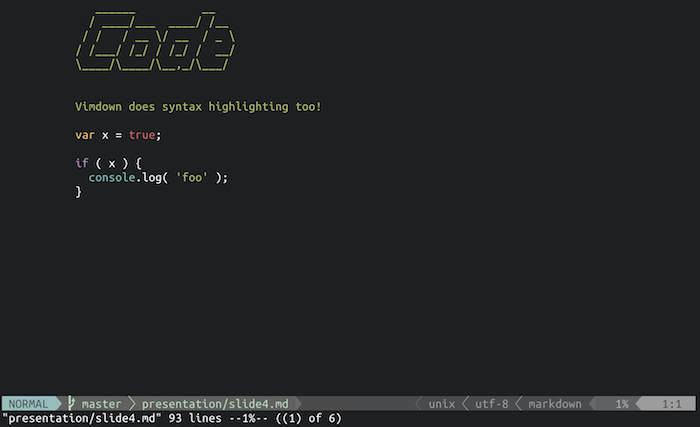
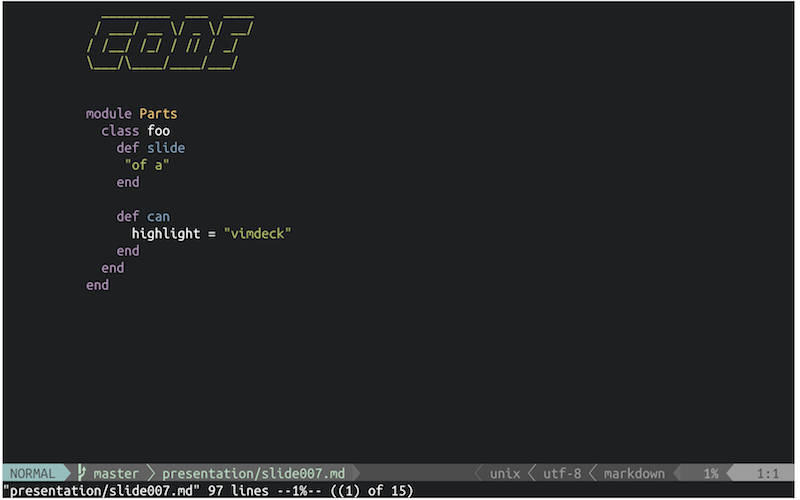
Fixing screenshots

diff --git a/slides.md b/slides.md
@@ -36,11 +36,9 @@
 • Third
 
 
-#
+## CODE
 
 ```ruby
-# VIMDECK DOES CODE!
-
 module Parts
   class foo
     def slide
@@ -55,11 +53,9 @@ end
 ```
 
 
-#
+## CODE
 
 ```ruby
-# VIMDECK DOES CODE!
-
 {~module Parts
   class foo
     def slide
@@ -74,11 +70,9 @@ end~}
 ```
 
 
-#
+## CODE
 
 ```ruby
-# VIMDECK DOES CODE!
-
 {~module Parts
   class foo
     def slide
@@ -93,11 +87,9 @@ end~}
 ```
 
 
-#
+## CODE
 
 ```ruby
-# VIMDECK DOES CODE!
-
 {~module Parts
   class foo
     def slide
@@ -112,11 +104,9 @@ end~}
 ```
 
 
-#
+## CODE
 
 ```ruby
-# VIMDECK DOES CODE!
-
 {~module~} Parts
   {~class foo
     def slide
@@ -131,11 +121,9 @@ end~}
 ```
 
 
-#
+## CODE
 
 ```ruby
-# VIMDECK DOES CODE!
-
 {~module Parts
   class foo
     def slide~}
@@ -150,11 +138,9 @@ end~}
 ```
 
 
-#
+## CODE
 
 ```ruby
-# VIMDECK DOES CODE!
-
 {~module Parts
   class foo
     def~} slide
